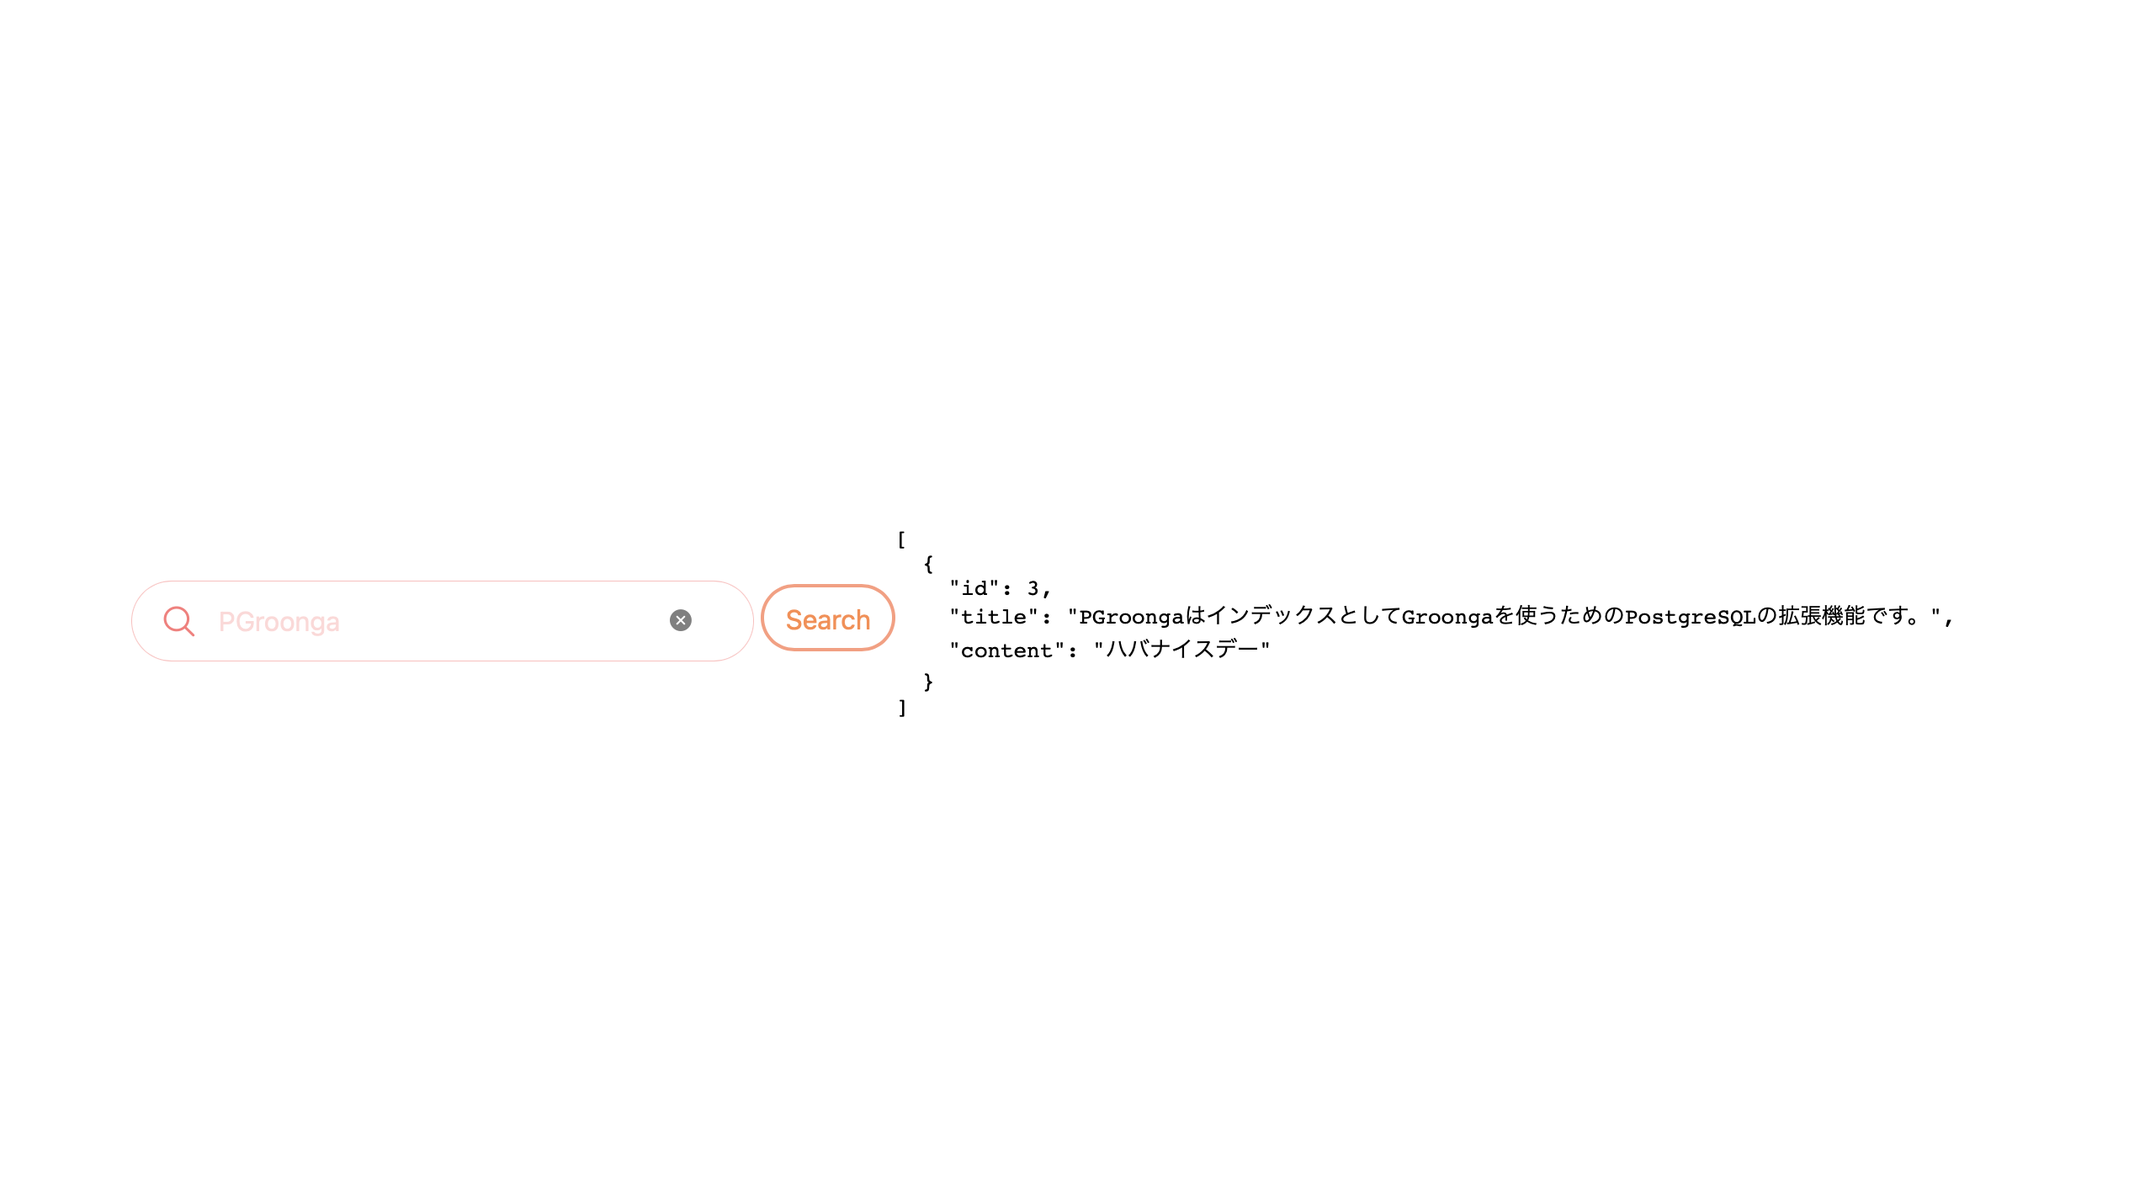
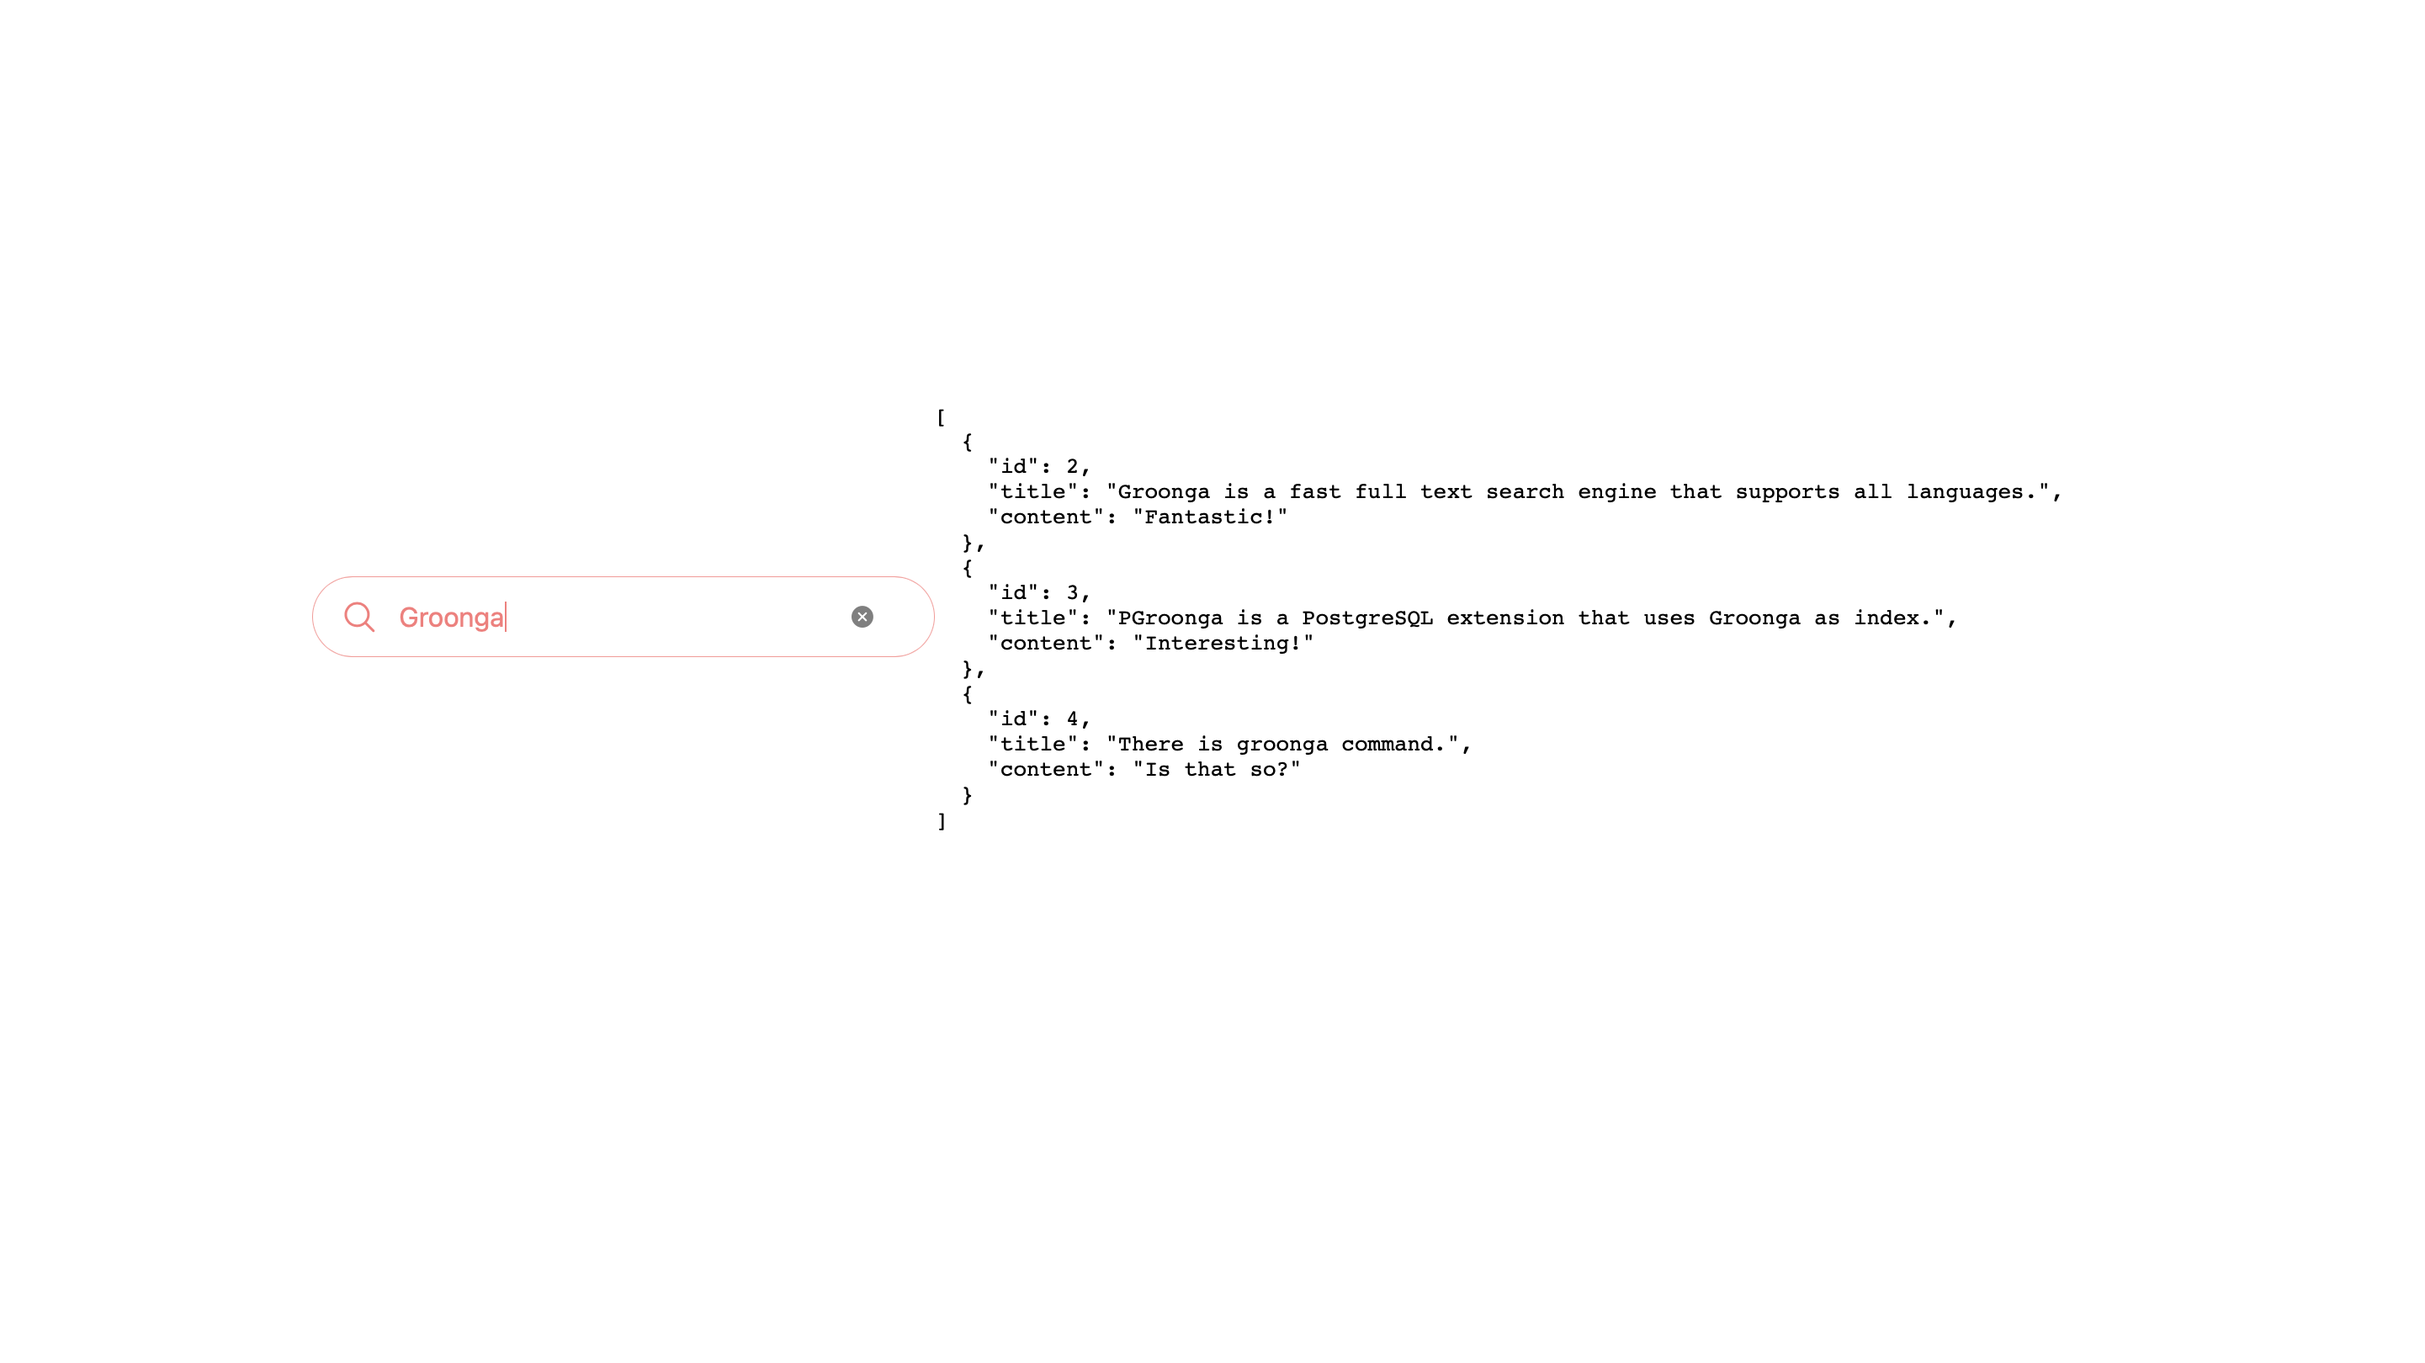
ja how-to/postgrest: reapply

diff --git a/ja/how-to/postgrest.md b/ja/how-to/postgrest.md
@@ -23,9 +23,7 @@ PGroongaの便利な機能を使うには、それらの機能に応じた最適
 
 - ひらがなとカタカナを同一視させます ("あっぷる"でも"あっぷる"と"アップル"がヒット)。
 
-- ひらがなとカタカナとローマ字を同一視させます ("de-tabe-su"で検索しても"de-tabe-su","でーたべーす",そして "データベース"がヒットします)。
-
-- 様々な長音記号を同一視させます ("-˗֊‐‑‒–⁃⁻₋− ﹣－ ー—―─━ｰ,"を同じ文字として扱います)。
+- Creating a text bigram index, it allows words to be matched even when they are used within the middle of another word. For example, using 'ppl' as a search keyword can match 'Apple'.
 
 早速やってみましょう！
 
@@ -39,21 +37,37 @@ CREATE TABLE memos (
 );
 
 -- Please don't mind the randomness of the sample text 😗
-INSERT INTO memos VALUES (1, 'PostgreSQL is a relational database management system.','Cool!');
-INSERT INTO memos VALUES (2, 'Groonga is a fast full text search engine that supports all languages.','Fantastic!');
-INSERT INTO memos VALUES (3, 'PGroonga is a PostgreSQL extension that uses Groonga as index.','Interesting!');
-INSERT INTO memos VALUES (4, 'There is groonga command.','Is that so?');
+INSERT INTO memos VALUES (1, 'PostgreSQLはリレーショナル・データベース管理システムです。','すごいでしょう');
+INSERT INTO memos VALUES (2, 'Groongaは日本語対応の高速な全文検索エンジンです。','スゴイデショウ');
+INSERT INTO memos VALUES (3, 'PGroongaはインデックスとしてGroongaを使うためのPostgreSQLの拡張機能です。','ハバナイスデー');
+INSERT INTO memos VALUES (4, 'groongaコマンドがあります。','今日はコンバンワこんにちわ');
 
 CREATE INDEX pgroonga_title_search_index ON memos USING pgroonga (title)
   WITH (
-    normalizers = 'NormalizerNFKC150',
-    tokenizer = 'TokenNgram("unify_symbol", false, "unify_alphabet", false, "unify_digit", false)'
+    normalizers = 'NormalizerNFKC150(
+                     "unify_to_romaji", true,
+                     "unify_hyphen_and_prolonged_sound_mark", true,
+                   )',
+    tokenizer='TokenNgram(
+                 "unify_alphabet", false,
+                 "unify_symbol", false,
+                 "unify_digit", false,
+                 "report_source_location", true"
+               )'
   );
 
 CREATE INDEX pgroonga_content_search_index ON memos USING pgroonga (content)
   WITH (
-    normalizers = 'NormalizerNFKC150',
-    tokenizer = 'TokenBigramSplitSymbolAlphaDigit'
+    normalizers = 'NormalizerNFKC150(
+                     "unify_to_romaji", true,
+                     "unify_hyphen_and_prolonged_sound_mark", true,
+                   )',
+    tokenizer='TokenNgram(
+                 "unify_alphabet", false,
+                 "unify_symbol", false,
+                 "unify_digit", false,
+                 "report_source_location", true"
+               )'
   );
 ```
 
@@ -102,10 +116,10 @@ http://localhost:3000/memos
 
 ```json
 [
-  {"id":1,"title":"PostgreSQL is a relational database management system.","content":"Cool!"}, 
-  {"id":2,"title":"Groonga is a fast full text search engine that supports all languages.","content":"Fantastic!"}, 
-  {"id":3,"title":"PGroonga is a PostgreSQL extension that uses Groonga as index.","content":"Interesting!"}, 
-  {"id":4,"title":"There is groonga command.","content":"Is that so?"}
+  {"id":1,"title":"PostgreSQLはリレーショナル・データベース管理システムです。","content":"すごいでしょう"},
+  {"id":2,"title":"Groongaは日本語対応の高速な全文検索エンジンです。","content":"スゴイデショウ"},
+  {"id":3,"title":"PGroongaはインデックスとしてGroongaを使うためのPostgreSQLの拡張機能です。","content":"ハバナイスデー"},
+  {"id":2,"title":"groongaコマンドがあります。","content":"今日はコンバンワこんにちわ"}
 ]
 ```
 
@@ -126,17 +140,17 @@ http://localhost:3000/memos
 [`http://localhost:3000/memos?title=like.*data*`](http://localhost:3000/memos?title=like.*data*)
 
 ```json
-[{"id":1,"title":"PostgreSQL is a relational database management system.","content":"Cool!"}]
+[{"id":1,"title":"PostgreSQLはリレーショナル・データベース管理システムです。","content":"すごいでしょう"}]
 ```
 
 ### contentを検索
 
 ブラウザを開いて次のURLにアクセスします:
 
-[`http://localhost:3000/memos?content=like.*tastic*`](http://localhost:3000/memos?content=like.*tastic*)
+[`http://localhost:3000/memos?content=like.*ショウ*`](http://localhost:3000/memos?content=like.*ショウ*)
 
 ```json
-[{"id":2,"title":"Groonga is a fast full text search engine that supports all languages.","content":"Fantastic!"}]
+[{"id":2,"title":"Groongaは日本語対応の高速な全文検索エンジンです。","content":"スゴイデショウ"}]
 ```
 
 ☝ 通常の LIKE 検索ではカタカナの'ショウ'ではひらがなの「しょう」はヒットしません
@@ -165,9 +179,9 @@ END;
 $$ LANGUAGE plpgsql;
 ```
 
-**NOTE: You need to restart `PostgREST`` when create a new functions**
+**注意：新しい関数を作ったときはPostgRESTを再起動しないといけません。
 
-Before proceeding to the next section, please restart your PostgREST by pressing `Ctrl + C` to stop the currently running PostgREST instance, and then run it again using the following command:
+次のセクションに進む前にPostgRESTを再起動してください。`Ctrl + C`で現在動いているPostgRESTインスタンスを止めて次のコマンドを使って起動し直します。
 
 ```sh
 postgrest memo.conf
@@ -179,24 +193,24 @@ PostgRESTでストアドファンクションを使う際には、URLに `/rpc/f
 
 ブラウザを開いて次のURLにアクセスします:
 
-[`http://localhost:3000/rpc/find_title?keywords=command`](http://localhost:3000/rpc/find_title?keywords=command)
+[`http://localhost:3000/rpc/find_title?keywords=こまんど`](http://localhost:3000/rpc/find_title?keywords=こまんど)
 
 次のような結果が戻って来ます。
 
 ```json
-[{"id":4,"title":"There is groonga command.","content":"Is that so?"}]
+[{"id":4,"title":"groongaコマンドがあります。","content":"今日はコンバンワこんにちわ"}]
 ```
 
 ちなみにブラウザからURLでエンドポイントを叩く方が、文字列のエンコードが不要な分、curlを使うよりも楽です。
 
 ```console
-$ curl --get --data-urlencode keywords=command http://localhost:3000/rpc/find_title
-[{"id":4,"title":"There is groonga command.","content":"Is that so?"}]
+$ curl --get --data-urlencode keywords=コマンド http://localhost:3000/rpc/find_title
+[{"id":4,"title":"groongaコマンドがあります。","content":"今日はコンバンワこんにちわ"}]
 ```
 
-### Searching is case-insensitive by default
+### デフォルトで大文字小文字を無視した検索
 
-Unlike `LIKE` search, PGroonga offers case-insensitive searching by default.
+`LIKE`検索と違い、PGroongaはデフォルトで大文字小文字を無視して検索します。
 
 ブラウザを開いて次のURLにアクセスします:
 
@@ -217,7 +231,7 @@ Unlike `LIKE` search, PGroonga offers case-insensitive searching by default.
 [`http://localhost:3000/rpc/find_title?keywords=Groonga command`](http://localhost:3000/rpc/find_title?keywords=Groonga%20command)
 
 ```json
-[{"id":4,"title":"There is groonga command.","content":"Is that so?"}]
+[{"id":4,"title":"groongaコマンドがあります。","content":"今日はコンバンワこんにちわ"}]
 ```
 
 ### OR検索
@@ -234,7 +248,7 @@ Unlike `LIKE` search, PGroonga offers case-insensitive searching by default.
 ]
 ```
 
-### NOT search
+### NOT検索
 
 ブラウザを開いて次のURLにアクセスします:
 
@@ -290,11 +304,11 @@ END;
 $$;
 ```
 
-## Keyword-Based Content Search
+## キーワードだけのコンテンツ検索
 
-At times, you may want to conduct a search solely using keywords, rather than specifying particular fields. Let's explore how you can accomplish this.
+検索対象のフィールド指定をせずにキーワードだけで全体を検索したいことがあります。ここではそのやり方を見ていきましょう。
 
-Consider a personal library stored in a database table `books`:
+個人蔵書のデータベースで`books`テーブルを持つ例で考えていきます:
 
 ```sql
 CREATE TABLE books (
@@ -309,7 +323,7 @@ INSERT INTO books VALUES (3, 'The Memoirs of Sherlock Holmes', 'Arthur Conan Doy
 INSERT INTO books VALUES (4, 'The Lion, the Witch, and the Wardrobe', 'C. S. Lewis');
 ```
 
-Suppose you want to find books with the author name containing 'Conan Doyle' and titles that include 'Sherlock'. Normally, you would execute the following SQL query:
+仮に作者名が'Conan Doyle'で作品名に'Sherlock'が含まれている本を探したいとします。通常次のようなSQLクエリを使います:
 
 ```sql
 SELECT * FROM books WHERE author LIKE '%Conan Doyle%' and title LIKE '%Sherlock%';
@@ -320,11 +334,11 @@ SELECT * FROM books WHERE author LIKE '%Conan Doyle%' and title LIKE '%Sherlock%
 -- (2 rows)
 ```
 
-However, if you're aiming for a Google-like keyword search experience, you would want to achieve the same results with a keyword string such as 'conan doyle sherlock'.
+ただ、Googleのようにキーワード検索のみで同じ検索を実現する場合は'conan doyle sherlock'のような検索キーワードで同じ結果が出て来て欲しいところです。
 
-### Creating an Special Index for Keyword-based Search
+### キーワード検索用の特別なインデックス作成
 
-To create this functionality, you will need to design multiple array indexes. Here's how you can proceed:
+このような機能を実現するためには複数配列なインデックスを作成する必要があります。ここにその作成方法を記載します:
 
 ```sql
 CREATE INDEX pg_multi_book_index on books USING pgroonga
@@ -340,9 +354,9 @@ CREATE INDEX pg_multi_book_index on books USING pgroonga
   );
 ```
 
-### Creating a Stored Function for Keyword-Based Search
+### キーワード検索用のストアドファンクションの作成
 
-To emulate a Google-like search experience within your database, you can create a stored function that accepts a keyword and returns the relevant records from the `books` table:
+Googleのような検索の動きをデータベースで実現させるには`books`テーブルからキーワードで内容を検索するためのストアドファンクションを次のように作ります:
 
 ```sql
 CREATE OR REPLACE FUNCTION gsearch(keyword text)
@@ -359,17 +373,17 @@ END;
 $$;
 ```
 
-### Adding New Permission to the books Table
+### booksテーブルに権限を付与
 
-You'll also need to grant the appropriate permissions to allow users to access the books table. Use the following SQL command:
+booksテーブルにアクセス可能なように必要な権限を付与します。次のSQLコマンドを実施してください:
 
 ```sql
 GRANT SELECT ON books TO web_user;
 ```
 
-### Search Example Using a Browser
+### ブラウザを使った検索例
 
-Now, you can perform a keyword-based search directly from your web browser. Simply navigate to the following URL:
+キーワード検索機能をテストする準備が整いました。ブラウザを開いて次のURLにアクセスしてください:
 
 [`http://localhost:3000/rpc/gsearch?keyword=conan doyle sherlock`](http://localhost:3000/rpc/gsearch?keyword=conan%20doyle%20sherlock)
 
@@ -380,16 +394,16 @@ Now, you can perform a keyword-based search directly from your web browser. Simp
 ]
 ```
 
-This seamless and user-friendly approach to searching through your data with keywords is both practical and exciting. It's a fantastic way to enhance your search capabilities, don't you think?
+キーワード検索を使うことで馴染みある方法で検索機能を利用することが出来ます。検索機能を充実させる上で便利な方法ではないでしょうか？
 
 
-## Using Keyword Auto Complete
+## 検索キーワードのオートコンプリート
 
-PGroonga has features to implement auto complete which is explained in [the auto complete how to section][auto-complete].
+PGroongaにはオートコンプリート機能が実装されており、ハウツーの[オートコンプリートの実装方法][auto-complete]に記載があります。
 
-Here we will explore how to implement this using PostgREST and just a simple HTML with JavaScript.
+ここではPostgRESTとシンプルなHTMLファイル（とJavaScript）でこの機能を利用する方法を紹介します。
 
-### Create Table for Auto Complete Feature
+### オートコンプリート機能用のテーブルの作成
 
 ```sql
 CREATE TABLE terms (
@@ -409,13 +423,13 @@ INSERT INTO terms (term, readings) VALUES ('Groonga', ARRAY['elasticsearch','mei
 INSERT INTO terms (term, readings) VALUES ('PGroonga', ARRAY['postgresql','extension']);
 ```
 
-### Set Up PostgREST Permission
+## PostgREST権限情報を設定
 
 ```sql
 GRANT SELECT ON terms TO web_user;
 ```
 
-### Create Auto Complete End Point
+### オートコンプリート機能用のエンドポイント作成
 
 ```sql
 CREATE OR REPLACE FUNCTION autocomplete(keyword text) RETURNS SETOF text AS $$
@@ -431,7 +445,7 @@ END;
 $$ LANGUAGE plpgsql;
 ```
 
-### Create a HTML with JavaScript
+### HTMLとJavaScriptの作成
 
 Create following HTML file:
 
@@ -518,26 +532,26 @@ vi index.html
 </html>
 ```
 
-### Run PostgREST as API backend
+### PostgRESTをAPIバックエンドとして起動
 
-Run your PostgREST service using following command:
+次のコマンドを使用してPostgRESTを実行します
 
 ```sh
 postgrest memo.conf
 ```
 
-### Open html and Try Out
+### HTMLファイルを開いてテストします
 
-Open `index.html` with your browser. 
+ブラウザで`index.html`を開きます。
 
 ![PGroonga Auto Complete1](../images/postgrest/auto-complete1.png)
 
-Type something and it will show the suggestions.
+何か入力するとキーワード候補が現れます。
 
-![PGroonga Auto Complete2](../images/postgrest/auto-complete2-en.png)
+![PGroonga Auto Complete2](../images/postgrest/auto-complete2.png)
 
-When you press `Search` button, it will performe keyword search on memos table title data.
+`Search`ボタンをクリックするとmemosテーブルのtitleデータを検索します。
 
-![PGroonga Auto Complete3](../images/postgrest/auto-complete3-en.png)
+![PGroonga Auto Complete3](../images/postgrest/auto-complete3.png)
 
 [auto-complete]: auto-complete.html

diff --git a/how-to/postgrest.md b/how-to/postgrest.md
@@ -163,7 +163,7 @@ END;
 $$ LANGUAGE plpgsql;
 ```
 
-**NOTE: You need to restart `PostgREST`` when create a new functions**
+**NOTE: You need to restart PostgREST when create a new functions**
 
 Before proceeding to the next section, please restart your PostgREST by pressing `Ctrl + C` to stop the currently running PostgREST instance, and then run it again using the following command:
 
@@ -524,18 +524,18 @@ Run your PostgREST service using following command:
 postgrest memo.conf
 ```
 
-### Open html and Try Out
+### Open HTML and Try Out
 
-Open `index.html` with your browser. 
+Open `index.html` with your browser.
 
 ![PGroonga Auto Complete1](../images/postgrest/auto-complete1.png)
 
 Type something and it will show the suggestions.
 
-![PGroonga Auto Complete2](../images/postgrest/auto-complete2-en.png)
+![PGroonga Auto Complete2](../images/postgrest/auto-complete2.png)
 
 When you press `Search` button, it will performe keyword search on memos table title data.
 
-![PGroonga Auto Complete3](../images/postgrest/auto-complete3-en.png)
+![PGroonga Auto Complete3](../images/postgrest/auto-complete3.png)
 
 [auto-complete]: auto-complete.html
